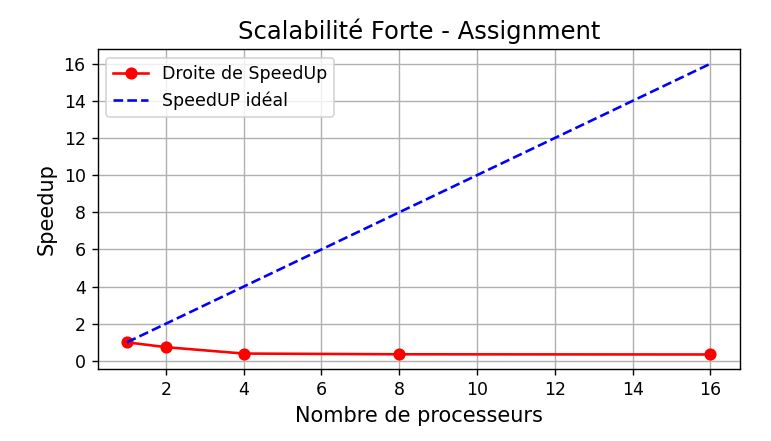
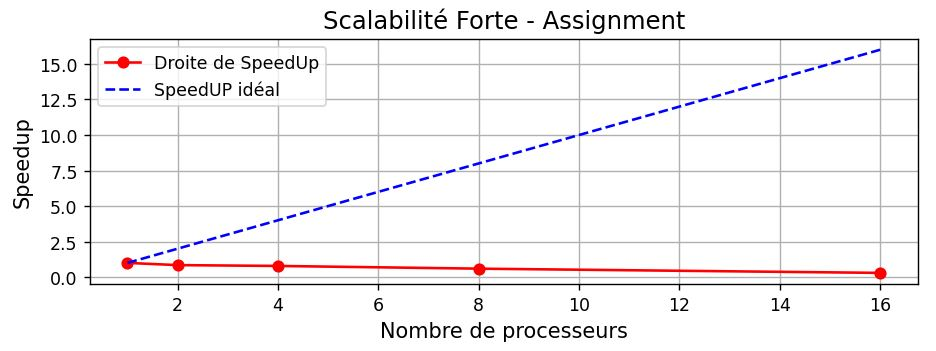
docs: changement de certaines images de graphique suite à des modification de data

Changed region(s): [[0.0, 0.0285, 0.9961, 0.9687], [0.5914, 0.1425, 0.6226, 0.1709]]

diff --git a/docs/Rapport.md b/docs/Rapport.md
@@ -330,7 +330,7 @@ D'après ce tableau nous obtenu un courbe de speed up pour la scalabilité faibl
 
 ###  <a name="b"></a> b/ Evaluation de l'écart du Speed Up
 
-Dans cette sous partie, nous allons voir comment l'erreur diminue au fur et à mesure qu'on augmente le nombre d'itération dasn les tests. En premier j'ai réalisé les tests de Pi.java*
+Dans cette sous partie, nous allons voir comment l'erreur diminue au fur et à mesure qu'on augmente le nombre d'itération dasn les tests. En premier j'ai réalisé les tests de Pi.java.
 
 | nbIteration | Error     |
 |-------------|-----------|
